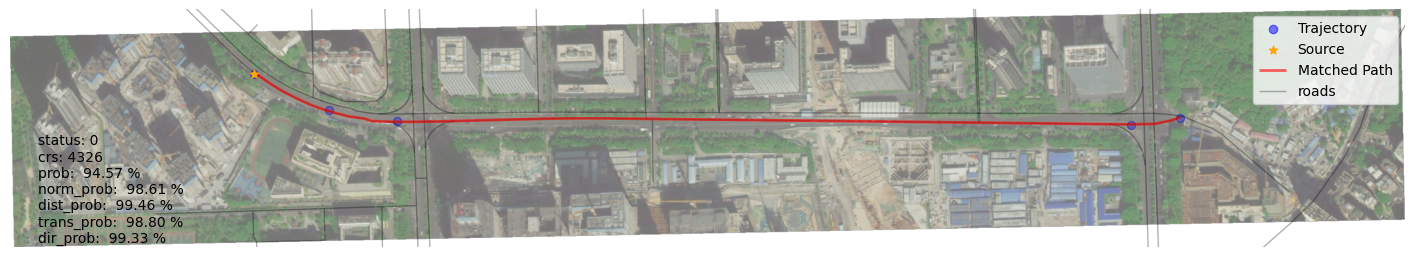
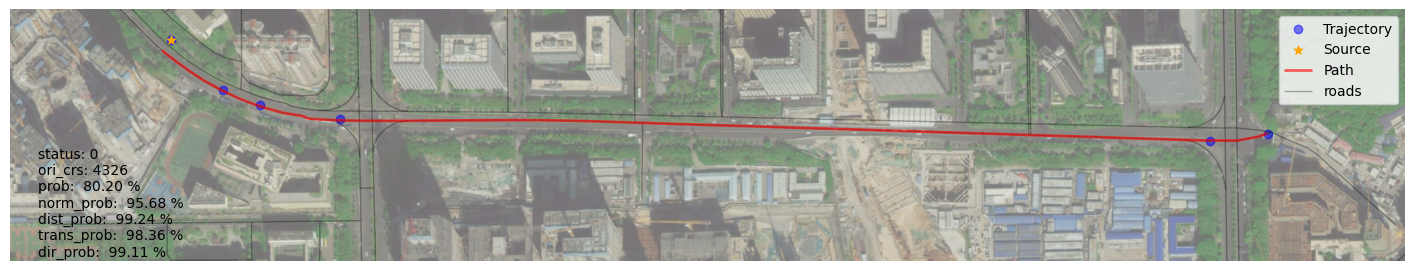
V2.0.5

diff --git a/mapmatching/matching.py b/mapmatching/matching.py
@@ -72,8 +72,8 @@ class ST_Matching():
                  simplify=True, tolerance=5, plot=False, save_fn=None,
                  debug_in_levels=False, details=False, metric=None, 
                  check_duplicate=False, check_topo=False):
-        self.logger.info("\n\nstart")
-        res = {'status': STATUS.UNKNOWN, 'crs': deepcopy(traj.crs.to_epsg())}
+        self.logger.trace("start")
+        res = {'status': STATUS.UNKNOWN, 'ori_crs': deepcopy(traj.crs.to_epsg())}
 
         _traj = self.align_crs(traj.copy())
         # simplify trajectory
@@ -101,13 +101,13 @@ class ST_Matching():
         res.update(match_res)
 
         if details or check_topo:
-            attrs = ['pid_1', 'step_0_len', 'step_n_len', 'cost', 'd_sht', 'd_euc', 'dist_prob', 'trans_prob', 'observ_prob', 'prob', 
-                     'flag', 'status', 'dst', 'src','step_0', 'geometry', 'step_n', 'path', 'epath', 'vpath','dist']
+            attrs = ['pid_1', 'step_0_len', 'step_n_len', 'cost', 'd_sht', 'd_euc', 'dist_prob', 
+                     'trans_prob', 'observ_prob', 'prob', 'flag', 'status', 'dst', 'src','step_0', 
+                     'geometry', 'step_n', 'path', 'epath', 'vpath','dist']
+            attrs = [i for i in attrs if i in list(graph)]
             if 'move_dir' in graph:
                 attrs += ['move_dir']
-                
-            # print(f"drop_atts: {[i for i in attrs if i not in list(graph) ]}")
-            attrs = [i for i in attrs if i in list(graph)]
+
             _dict = {
                 "simplified_traj": _traj,
                 'cands': cands, 
@@ -120,15 +120,17 @@ class ST_Matching():
 
         if metric is not None:
             res['metric'] = self.eval(_traj, res, metric=metric)
-            print(f"{metric}: {res['metric']}")
+            self.logger.info(f"{metric}: {res['metric']}")
 
         if plot or save_fn:
-            fig, ax = self.plot_result(_traj, res)
-            if simplify:
-                traj.plot(ax=ax, color='gray', alpha=.5)
-                _traj.plot(ax=ax, color='yellow', alpha=.5)
-            if not plot:
-               plt.close()
+            fig, ax = self.plot_result(traj, res)
+            # if simplify:
+                # traj.plot(ax=ax, color='gray', alpha=.5)
+                # _traj.plot(ax=ax, color='yellow', alpha=.5)
+            if plot:
+                plt.show()
+            else:
+                plt.close()
             if save_fn:
                 fig.savefig(save_fn, dpi=300, bbox_inches='tight', pad_inches=0.02)
 
@@ -136,7 +138,7 @@ class ST_Matching():
             self.matching_debug(_traj, graph)
         
         if check_topo:
-            # FIXME 重复操作，直接返回结果即可
+            # TODO
             flag = check_steps(self, res, prob_thred=.75, factor=1.2)
             if flag:
                 res = self.matching(_traj, top_k, dir_trans, beam_search,
@@ -163,7 +165,6 @@ class ST_Matching():
         
         return True, None
 
-    @timeit
     def spatial_analysis(self, traj, cands, dir_trans, beam_search, metric={}):
         if beam_search:
             graph = construct_graph(traj, cands, dir_trans=dir_trans)
@@ -180,7 +181,7 @@ class ST_Matching():
         """
         lcss 的 dp 数组 循环部分，使用numba 加速，这个环节可以降低 10% 的时间消耗（20 ms） 
         """
-        # FIXME ll
+        # FIXME 
         assert res is not None or path is not None
         assert metric in ['lcss', 'edr', 'erp']
         
@@ -212,10 +213,11 @@ class ST_Matching():
             _points, 
             path.to_crs(points.crs), 
             normalized = normalized)
+        
         if keep_attrs:
             ps = ps[keep_attrs]
 
-        ps = gpd.GeoDataFrame(pd.concat([_points, ps], axis=1))
+        ps = gpd.GeoDataFrame(pd.concat([_points, ps], axis=1), crs=points.crs)
         if reset_geom:
             ps.loc[:, 'ori_geom'] = points.geometry.apply(lambda x: x.wkt)
             ps.set_geometry('proj_point', inplace=True)
@@ -230,7 +232,6 @@ class ST_Matching():
         
         return traj
 
-    @timeit
     def simplify(self, points:gpd.GeoDataFrame, tolerance:int=None, inplace=False):        
         return simplify_trajetory_points(points, tolerance, inplace=True, logger=self.logger)
 
@@ -256,14 +257,17 @@ class ST_Matching():
         
         return img
 
+    @timeit
     def plot_result(self, traj, info):
         info = deepcopy(info)
         if info['status'] == 3:
             path = None
+        elif info.get('details', {}).get('path', None):
+            path = info['details']['path']
         else:
-            path = self.transform_res_2_path(info, ori_crs=False)
-
-        fig, ax = plot_matching_result(self.align_crs(traj.copy()), path, self.net)
+            path = self.transform_res_2_path(info)
+        
+        fig, ax = plot_matching_result(traj, path, self.net)
         if not info:
             return fig, ax
 
@@ -289,30 +293,34 @@ class ST_Matching():
 
         return fig, ax
 
-    def transform_res_2_path(self, res, ori_crs=True):
-        path = self.net.get_edge(res['epath'], reset_index=True)
+    def transform_res_2_path(self, res, ori_crs=True, attrs=None):
+        if attrs is None:
+            attrs = ['eid', 'way_id', 'src', 'dst', 'name', 'road_type', 'dist', 'geometry']
+        path = self.net.get_edge(res['epath'], attrs, reset_index=True)
+
         _len = len(res['epath']) 
-        
-        # TODO: modify `dist`
         if _len == 1:
+            path.loc[0, 'dist'] *= res['step_n'] - res['step_0']
             path.loc[0, 'geometry'] = shapely.ops.substring(
                 path.iloc[0].geometry, res['step_0'], res['step_n'], normalized=True)
         else:
+            path.loc[0, 'dist'] *= 1 - res['step_0']
             path.loc[0, 'geometry'] = shapely.ops.substring(
                 path.iloc[0].geometry, res['step_0'], 1, normalized=True)
+
+            path.loc[_len - 1, 'dist'] *= res['step_n']
             path.loc[_len - 1, 'geometry'] = shapely.ops.substring(
                 path.iloc[-1].geometry, 0, res['step_n'], normalized=True)
         
         path = path[~path.geometry.is_empty]
         if ori_crs:
-            path = path.to_crs(res['crs'])
+            path = path.to_crs(res['ori_crs'])
 
         return path
 
     def update(self):
         return NotImplementedError
     
-    @timeit
     def align_crs(self, traj):
         return self.net.align_crs(traj)
 

diff --git a/mapmatching/match/visualization.py b/mapmatching/match/visualization.py
@@ -8,9 +8,10 @@ from PIL import Image
 import geopandas as gpd
 import matplotlib.pyplot as plt
 from shapely.geometry import box
+
 from ..utils.parallel_helper import parallel_process
 from ..utils.img import merge_np_imgs
-
+from ..graph import GeoDigraph
 from ..geo.vis import plot_geodata, TILEMAP_FLAG, add_basemap
 
 def matching_debug_subplot(traj, edges, item, level, src, dst, ax=None, maximun=None, legend=True, factor=4):
@@ -201,19 +202,22 @@ def _base_plot(df, column=None, categorical=True):
     
     return ax
 
-def plot_matching_result(traj_points, path, net, column=None, categorical=True):
+def plot_matching_result(traj_points: gpd.GeoDataFrame, path: gpd.GeoDataFrame, net: GeoDigraph, 
+                         column=None, categorical=True):
+    traj_crs = traj_points.crs.to_epsg()
+    if traj_crs != path.crs.to_epsg():
+        path = path.to_crs(traj_crs)
+
     _df = gpd.GeoDataFrame(pd.concat([traj_points, path]))
     fig, ax = plot_geodata(_df, figsize=(18, 12), tile_alpha=.7, reset_extent=False, alpha=0)
 
     traj_points.plot(ax=ax, label='Trajectory', zorder=2, alpha=.5, color='b')
     traj_points.iloc[[0]].plot(ax=ax, label='Source', zorder=4, marker="*", color='orange')
     if path is not None:
-        path.plot(ax=ax, color='r', label='Matched Path', zorder=3, linewidth=2, alpha=.6)
+        path.plot(ax=ax, color='r', label='Path', zorder=3, linewidth=2, alpha=.6)
 
-    x0, x1, y0, y1 = ax.axis()
-    zones = gpd.GeoDataFrame({'geometry': [box(x0, y0, x1, y1)]})
-    net.df_edges.sjoin(zones, how="inner", predicate='intersects')\
-                .plot(ax=ax, color='black', label='roads', alpha=.3, zorder=2, linewidth=1)
+    ax = net.add_edge_map(ax, traj_crs, color='black', label='roads', alpha=.3, zorder=2, linewidth=1)
+
     ax.legend(loc=1)
 
     return fig, ax

diff --git a/mapmatching/osmnet/build_graph.py b/mapmatching/osmnet/build_graph.py
@@ -1,6 +1,4 @@
 import os
-os.environ["USE_PYGEOS"] = "1"
-
 from ..graph import GeoDigraph
 from ..osmnet.downloader import download_osm_xml
 from ..osmnet.parse_osm_xml import parse_xml_to_graph
@@ -18,11 +16,28 @@ def load_geograph(ckpt, ll):
     return graph
 
 
-def build_geograph(xml_fn=None, bbox=None, ckpt=None, ll=False, way_info=True, upload_to_db=False, *args, **kwargs):
+def build_geograph(xml_fn:str=None, bbox:list=None, ckpt:str=None, 
+                   ll=False, *args, **kwargs):
+    """Build geograph by one of the three type: 1) xml_fn, 2) bbox, 3) ckpt. 
+    The prior is: ckpt > xml_fn > bbox
+
+    Args:
+        xml_fn (str, optional): Local OSM network file path. When `xml_fn` is not exist
+        and the `bbox` is config, the OSM file would be downloaded and save at that location. Defaults to None.
+        bbox (list, optional): Download the OSM netkork by the Bounding box. Defaults to None.
+        ckpt (str, optional): Checkpoint. Defaults to None.
+        ll (bool, optional): Use lon/lat coordination system. Defaults to False.
+
+    Returns:
+        GeoDigraph: graph
+    """
+    assert xml_fn is not None or bbox is not None or ckpt is not None
     if ckpt:
         return load_geograph(ckpt, ll)
 
     if not os.path.exists(xml_fn):
+        assert bbox is not None, \
+              "The local osm file is not exists, please config bbox to dowload"
         download_osm_xml(xml_fn, bbox, False)
     
     df_nodes, df_edges, df_ways = parse_xml_to_graph(xml_fn, *args, **kwargs)
@@ -41,6 +56,7 @@ if __name__ == "__main__":
     
     # load ckpt
     graph = build_geograph(ckpt=f'../../data/network/{name}_graph_pygeos.ckpt')
+    
     # check
     path = graph.search(src=7959990710, dst=499265789)
     graph.get_edge(path['epath']).plot()

diff --git a/mapmatching/graph/geograph.py b/mapmatching/graph/geograph.py
@@ -2,8 +2,9 @@ import os
 import numpy as np
 import pandas as pd
 import geopandas as gpd
+import matplotlib.pyplot as plt
 from geopandas import GeoDataFrame
-from shapely.geometry import LineString
+from shapely.geometry import LineString, box
 # from networkx.classes import DiGraph
 
 from .base import Digraph
@@ -309,7 +310,24 @@ class GeoDigraph(Digraph):
     def epsg(self):
         return self.df_edges.crs.to_epsg()
 
-    
+    def add_edge_map(self, ax, crs=4326, *args, **kwargs):
+        if ax is None:
+            fig, ax = plt.subplots()
+
+        x0, x1, y0, y1 = ax.axis()
+        zones = gpd.GeoDataFrame({'geometry': [box(x0, y0, x1, y1)]})
+
+        if crs == 4326:
+            if not hasattr(self, "df_edges_ll"):
+                self.df_edges_ll = self.df_edges.to_crs(self.crs_wgs)
+            df_edges = self.df_edges_ll
+        else:
+            df_edges = self.df_edges
+        df_edges = df_edges.sjoin(zones, how="inner", predicate='intersects')
+        df_edges.plot(ax=ax, *args, **kwargs)
+
+        return ax
+
 if __name__ == "__main__":
     network = GeoDigraph()
     network.load_checkpoint(ckpt='./cache/Shenzhen_graph_9.ckpt')

diff --git a/demo.py b/demo.py
@@ -4,7 +4,7 @@ from mapmatching import build_geograph, ST_Matching
 # 方法1：
 # 根据 bbox 从 OSM 下载路网，从头解析获得路网数据
 # net = build_geograph(bbox=[113.930914, 22.570536, 113.945456, 22.585613],
-#                      xml_fn="./data/network/LXD.osm.xml", ll=False)
+#                      xml_fn="./data/network/LXD.osm.xml", ll=False, n_jobs=1)
 # 将预处理路网保存为 ckpt
 # net.save_checkpoint('./data/network/LXD_graph.ckpt')
 
@@ -23,7 +23,7 @@ res = matcher.matching(traj, top_k=5, dir_trans=True, details=False, plot=True,
 
 # 后续步骤可按需选择
 """step 4: 将轨迹点映射到匹配道路上"""
-path = matcher.transform_res_2_path(res, ori_crs=True)
+path = matcher.transform_res_2_path(res)
 proj_traj = matcher.project(traj, path)
 
 """step 5: eval"""

diff --git a/mapmatching/match/candidatesGraph.py b/mapmatching/match/candidatesGraph.py
@@ -93,7 +93,8 @@ def construct_graph( points,
     traj_info = cal_traj_params(points.loc[cands.pid.unique()], move_dir=dir_trans)
     
     gt = gt.merge(traj_info, on=['pid_0', 'pid_1'])
-    gt.loc[:, ['src', 'dst']] = gt.loc[:, ['src', 'dst']].astype(int)
+    # gt.loc[:, ['src', 'dst']] = gt.loc[:, ['src', 'dst']].astype(int)
+    gt.loc[:, ['src', 'dst']] = gt.loc[:, ['src', 'dst']].astype(np.int64)
     if gt_keys:
         gt.set_index(gt_keys, inplace=True)
     

diff --git a/mapmatching/osmnet/twoway_edge.py b/mapmatching/osmnet/twoway_edge.py
@@ -5,7 +5,10 @@ from loguru import logger
 from shapely.geometry import LineString
 
 
-def swap_od(df_edge_rev, od_attrs=['src', 'dst']):
+def swap_od(df_edge_rev:pd.DataFrame, od_attrs=['src', 'dst']):
+    if df_edge_rev.empty:
+        return df_edge_rev
+    
     df_edge_rev.loc[:, 'dir']       = -1
     df_edge_rev.loc[:, 'order']     = -df_edge_rev.order - 1
     df_edge_rev.loc[:, 'waypoints'] = df_edge_rev.waypoints.apply(lambda x: x[::-1])

diff --git a/changelog.md b/changelog.md
@@ -9,12 +9,32 @@
 - [x] 球面坐标 -> 投影坐标，一系列的变更工作
 - [x] 线形的中间过程使用 numpy, 而非 LineString
 - [x] linear referencing 矢量化操作
-- [ ] 控制多进程，支撑在windows下运行
+- [x] 可视化模块，投影坐标统一
+- [ ] 控制多进程，支撑在windows下运行 :star:
 - [ ] 中间过程，探讨 geom 是否有必要，减少非必要计算的开销
 - [ ] 双向 A* 最短路算法，纠正
 - [ ] ALT 算法，加速最短路搜索速度
 - [ ] resmaple 使用矢量算法
-- [ ] 可视化模块，投影坐标统一
+- [ ] `GeoGraph` aligned to `networkx` :star:
+
+## [V2.0.5] - 2023-4-14
+
+### Added
+
+- mapmatching/graph/geograph.py
+  - 新增 `add_edge_map` 函数，将原来的可视化程序解耦
+
+### Changed
+
+- 修复一些 Bugs
+
+  - ST_Matching.matching 中 绘图所使用的GeoDataFrame 存在没有初始化 crs
+
+    让本来经纬度坐标的直接绘制在投影坐标的图上，导致图的比例尺特别大
+
+  - candidatesGraph L97 数值溢出问题
+
+  - mapmatching/osmnet/twoway_edge.swap_od 空 dataframe 的处理
 
 ## [V2.0.4] - 2023-4-9
 
